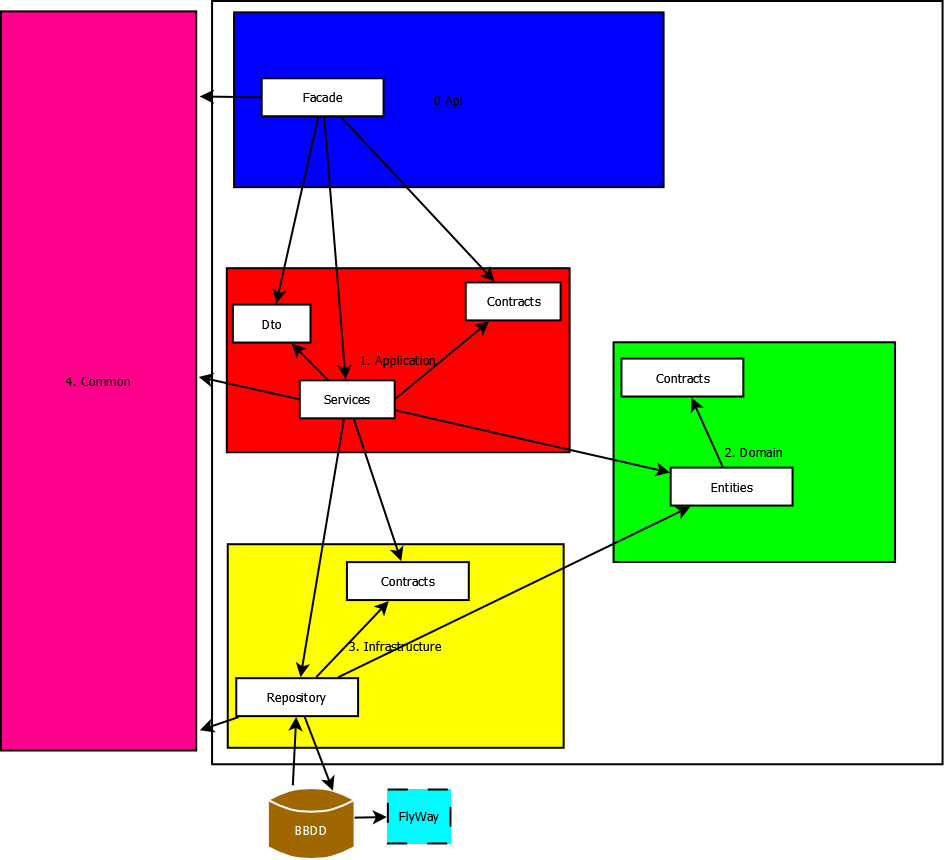
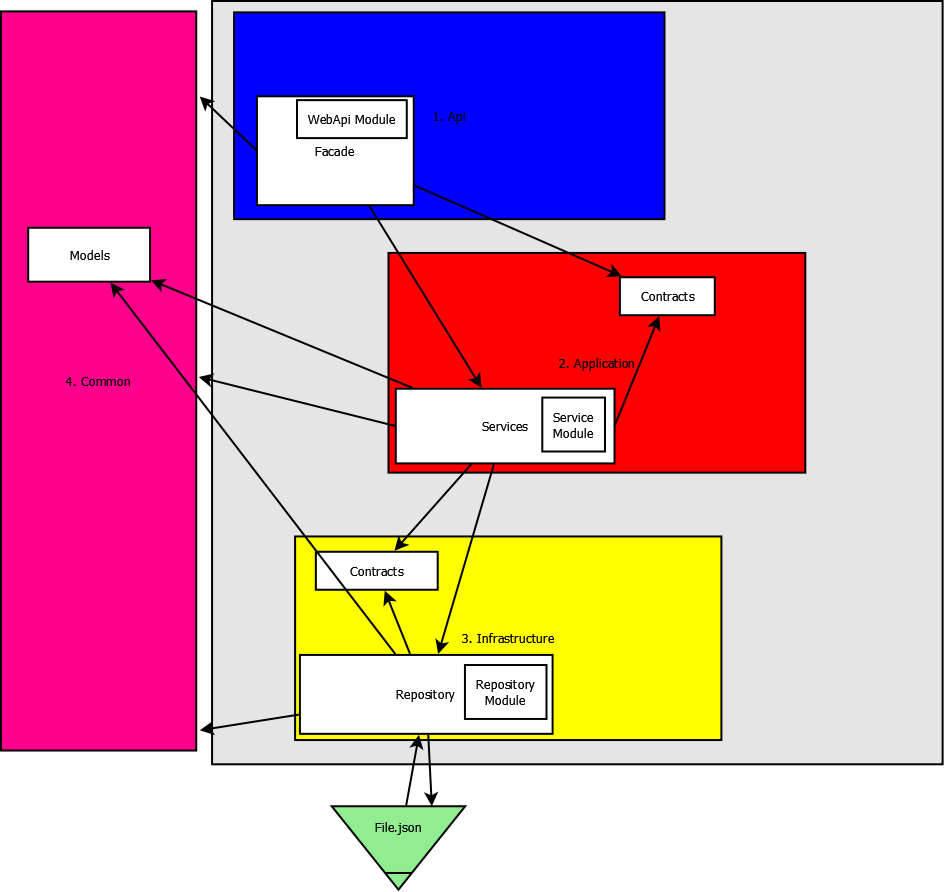
Closed #5. Injection DONE!

diff --git a/Vueling.Application.Services/Modules/ServiceModule.cs b/Vueling.Application.Services/Modules/ServiceModule.cs
@@ -2,6 +2,7 @@
 using System;
 using System.Collections.Generic;
 using System.Linq;
+using System.Net.Http;
 using System.Text;
 using System.Threading.Tasks;
 using Vueling.Application.Services.Contracts;
@@ -16,30 +17,35 @@ namespace Vueling.Application.Services.Modules {
     public class ServiceModule : Autofac.Module {
 
         protected override void Load(ContainerBuilder builder) {
-            builder
-                .RegisterType<ClientService>()
-                .As<IClientService>()
-                .InstancePerRequest();
-
-            builder
-               .RegisterType<PolicyService>()
-               .As<IPolicyService>()
-               .InstancePerRequest();
-
+           
             builder
                 .RegisterType<ClientRepository>()
                 .As<IClientRepository>()
-                .InstancePerRequest();
+                .InstancePerDependency();
+
+            builder
+                .RegisterType<ClientService>()
+                .As<IClientService>()
+                .InstancePerDependency();
+
+            builder
+                .RegisterType<PolicyService>()
+                .As<IPolicyService>()
+                .InstancePerDependency();
 
             builder
                 .RegisterType<PolicyRepository>()
                 .As<IPolicyRepository>()
-                .InstancePerRequest();
+                .InstancePerDependency();
+
+            builder
+                .RegisterType<HttpClient>()
+                .InstancePerDependency();
 
             builder
                 .RegisterType<Log4netAdapter>()
                 .As<ILogger>()
-                .InstancePerRequest();
+                .InstancePerDependency();
 
             builder.RegisterModule(new RepositoryModule());
 

diff --git a/Vueling.Common.Framework.IntegrationTest.Layer/Properties/AssemblyInfo.cs b/Vueling.Common.Framework.IntegrationTest.Layer/Properties/AssemblyInfo.cs
@@ -1,0 +1,36 @@
+using System.Reflection;
+using System.Runtime.CompilerServices;
+using System.Runtime.InteropServices;
+
+// La información general de un ensamblado se controla mediante el siguiente 
+// conjunto de atributos. Cambie estos valores de atributo para modificar la información
+// asociada con un ensamblado.
+[assembly: AssemblyTitle("Vueling.Common.Framework.IntegrationTest.Layer")]
+[assembly: AssemblyDescription("")]
+[assembly: AssemblyConfiguration("")]
+[assembly: AssemblyCompany("")]
+[assembly: AssemblyProduct("Vueling.Common.Framework.IntegrationTest.Layer")]
+[assembly: AssemblyCopyright("Copyright ©  2018")]
+[assembly: AssemblyTrademark("")]
+[assembly: AssemblyCulture("")]
+
+// Si establece ComVisible en false, los tipos de este ensamblado no estarán visibles 
+// para los componentes COM.  Si es necesario obtener acceso a un tipo en este ensamblado desde 
+// COM, establezca el atributo ComVisible en true en este tipo.
+[assembly: ComVisible(false)]
+
+// El siguiente GUID sirve como id. de typelib si este proyecto se expone a COM.
+[assembly: Guid("a9d95669-2b41-46e5-84d4-20b1522da406")]
+
+// La información de versión de un ensamblado consta de los cuatro valores siguientes:
+//
+//      Versión principal
+//      Versión secundaria
+//      Número de compilación
+//      Revisión
+//
+// Puede especificar todos los valores o usar los números de compilación y de revisión predeterminados
+// mediante el carácter "*", como se muestra a continuación:
+// [assembly: AssemblyVersion("1.0.*")]
+[assembly: AssemblyVersion("1.0.0.0")]
+[assembly: AssemblyFileVersion("1.0.0.0")]

diff --git a/Vueling.Facade.Api/Controllers/HTTPApiController.cs b/Vueling.Facade.Api/Controllers/HTTPApiController.cs
@@ -13,11 +13,13 @@ using Vueling.Application.Services.Contracts;
 using Vueling.Application.Services.Service;
 using Vueling.Common.Layer;
 using Vueling.Common.Layer.Utils;
+using Vueling.Common.Layer.Utils.Log4net;
 using Vueling.Facade.Api.ViewModels;
 
-namespace Vueling.Facade.Api.Controllers {   /// <summary>
-                                             /// controller that receives from the web service
-                                             /// </summary>
+namespace Vueling.Facade.Api.Controllers {  
+    /// <summary>
+    /// controller that receives from the web service
+    /// </summary>
     public class HTTPApiController {
 
         public IHTTPService httpService;
@@ -28,7 +30,15 @@ namespace Vueling.Facade.Api.Controllers {   /// <summary>
             httpService = hTTPService;
             this.log = log;
         }
+
+        /*
+        public HTTPApiController() {
+            this.httpService = new HTTPService();
+            this.log = new Log4netAdapter();
+        }
+        */
         #endregion
+        
 
 
 
@@ -36,9 +46,9 @@ namespace Vueling.Facade.Api.Controllers {   /// <summary>
         /// Call GetAllClients and GetAllPolicies
         /// </summary>
         /// <returns></returns>
-        public void InitBDAsync() {
-            GetAllClients();
-            GetAllPolicies();
+        public async void InitBDAsync() {
+            await GetAllClients();
+            await GetAllPolicies();
         }
 
         /// <summary>

diff --git a/Vueling.Facade.Api/Modules/WebApiModule.cs b/Vueling.Facade.Api/Modules/WebApiModule.cs
@@ -16,33 +16,31 @@ namespace Vueling.Facade.Api.Modules {
     public class WebApiModule : Autofac.Module {
 
         protected override void Load(ContainerBuilder builder) {
+
             builder.RegisterApiControllers(Assembly.GetExecutingAssembly());
 
             builder
-                .RegisterType<HTTPApiController>()
-                .InstancePerRequest();
+                .RegisterType<ClientService>()
+                .As<IClientService>()
+                .InstancePerDependency();
+
+
+            builder
+               .RegisterType<PolicyService>()
+               .As<IPolicyService>()
+               .InstancePerDependency();
 
 
             builder
                 .RegisterType<HTTPService>()
                 .As<IHTTPService>()
-                .InstancePerRequest();
+                .InstancePerDependency();
 
-
-            builder
-                .RegisterType<ClientService>()
-                .As<IClientService>()
-                .InstancePerRequest();
-
-            builder
-               .RegisterType<PolicyService>()
-               .As<IPolicyService>()
-               .InstancePerRequest();
 
             builder
                 .RegisterType<Log4netAdapter>()
                 .As<ILogger>()
-                .InstancePerRequest();
+                .InstancePerDependency();
 
             builder.RegisterModule(new ServiceModule());
 

diff --git a/Vueling.Facade.Api/Global.asax.cs b/Vueling.Facade.Api/Global.asax.cs
@@ -6,27 +6,20 @@ using System.Web.Http;
 using System.Web.Mvc;
 using System.Web.Optimization;
 using System.Web.Routing;
+using Vueling.Application.Services.Service;
 using Vueling.Facade.Api.App_Start;
 using Vueling.Facade.Api.Controllers;
 
 namespace Vueling.Facade.Api {
     public class WebApiApplication : System.Web.HttpApplication {
-
-        /*
-        private HTTPApiController httpApiController;
-
-        public WebApiApplication(HTTPApiController httpApiController) {
-            this.httpApiController = httpApiController;
-        }
-        */
-
+        
         protected async void Application_Start() {
             AreaRegistration.RegisterAllAreas();
             GlobalConfiguration.Configure(WebApiConfig.Register);
             FilterConfig.RegisterGlobalFilters(GlobalFilters.Filters);
             RouteConfig.RegisterRoutes(RouteTable.Routes);
             BundleConfig.RegisterBundles(BundleTable.Bundles);
-            //httpApiController.InitBDAsync();
+           // StartDbConfig.InitData();
             log4net.Config.XmlConfigurator.Configure();
             AutofacConfigure.Configure();
         }

diff --git a/Vueling.Infrastructure.Repository/Modules/RepositoryModule.cs b/Vueling.Infrastructure.Repository/Modules/RepositoryModule.cs
@@ -18,23 +18,23 @@ namespace Vueling.Infrastructure.Repository.Modules {
             builder
                .RegisterType<ClientRepository>()
                .As<IClientRepository>()
-               .InstancePerRequest();
+               .InstancePerDependency();
 
             builder
                .RegisterType<PolicyRepository>()
                .As<IPolicyRepository>()
-               .InstancePerRequest();
+               .InstancePerDependency();
 
 
             builder
                 .RegisterType<FileManager>()
                 .As<IFileManager>()
-                .InstancePerRequest();
+                .InstancePerDependency();
 
             builder
                 .RegisterType<Log4netAdapter>()
                 .As<ILogger>()
-                .InstancePerRequest();
+                .InstancePerDependency();
 
             base.Load(builder);
 

diff --git a/Vueling.Application.Services/Services/ClientService.cs b/Vueling.Application.Services/Services/ClientService.cs
@@ -9,16 +9,18 @@ using Vueling.Application.Dto;
 using Vueling.Application.Services.Contracts;
 using Vueling.Common.Layer;
 using Vueling.Common.Layer.Utils;
+using Vueling.Common.Layer.Utils.Log4net;
 using Vueling.Domain.Entities;
 using Vueling.Infrastructure.Repository.Contracts;
 using Vueling.Infrastructure.Repository.Repository;
 
 namespace Vueling.Application.Services.Service {
     public class ClientService : IClientService {
-        private readonly ClientRepository clientRepository;
+        private readonly IClientRepository clientRepository;
         private readonly ILogger log;
 
-        public ClientService(ClientRepository clientRepository, ILogger log) {
+       
+        public ClientService(IClientRepository clientRepository, ILogger log) {
             this.clientRepository = clientRepository;
             this.log = log;
         }

diff --git a/Vueling.Infrastructure.Repository/RepositoryUtils/FileManager.cs b/Vueling.Infrastructure.Repository/RepositoryUtils/FileManager.cs
@@ -8,6 +8,7 @@ using System.Threading.Tasks;
 using Vueling.Application.Dto;
 using Vueling.Common.Layer;
 using Vueling.Common.Layer.Utils;
+using Vueling.Common.Layer.Utils.Log4net;
 using Vueling.Domain.Entities;
 using Vueling.Infrastructure.Repository.Contracts;
 
@@ -26,6 +27,12 @@ namespace Vueling.Infrastructure.Repository {
             Path = Resource_Infrastructure_Repository.PathForFiles;
         }
 
+        public FileManager() {
+            log = new Log4netAdapter();
+            FileClients = Resource_Infrastructure_Repository.PathClients;
+            FilePolicies = Resource_Infrastructure_Repository.PathPolicies;
+            Path = Resource_Infrastructure_Repository.PathForFiles;
+        }
 
         public void SaveClients(List<ClientEntity> listClients) {
             try {

diff --git a/Vueling.Common.Framework.IntegrationTest.Layer/IoCSupportedTest.cs b/Vueling.Common.Framework.IntegrationTest.Layer/IoCSupportedTest.cs
@@ -1,0 +1,29 @@
+using Autofac;
+using Autofac.Core;
+using System;
+using System.Collections.Generic;
+using System.Linq;
+using System.Text;
+using System.Threading.Tasks;
+
+namespace Vueling.Common.Framework.IntegrationTest.Layer {
+    public class IoCSupportedTest<TModule> where TModule : IModule, new() {
+        private IContainer container;
+
+        public IoCSupportedTest() {
+            var builder = new ContainerBuilder();
+
+            builder.RegisterModule(new TModule());
+
+            container = builder.Build();
+        }
+
+        protected TEntity Resolve<TEntity>() {
+            return container.Resolve<TEntity>();
+        }
+
+        protected void ShutdownIoC() {
+            container.Dispose();
+        }
+    }
+}

diff --git a/Vueling.Application.Services/Services/HTTPService.cs b/Vueling.Application.Services/Services/HTTPService.cs
@@ -13,6 +13,7 @@ using Vueling.Application.JsonModels;
 using Vueling.Application.Services.Contracts;
 using Vueling.Common.Layer;
 using Vueling.Common.Layer.Utils;
+using Vueling.Common.Layer.Utils.Log4net;
 
 namespace Vueling.Application.Services.Service {
     public class HTTPService : IHTTPService{
@@ -32,7 +33,14 @@ namespace Vueling.Application.Services.Service {
             this.policyService = policyService;
             client.BaseAddress = new Uri(ConfigurationManager.AppSettings["uriWebServiceClientsPolicies"]);
         }
+        
         #endregion
+
+        public void InitDb() {
+            GetAllClients();
+            GetAllPolicies();
+        }
+
 
         /// <summary>
         /// Get all clients

diff --git a/Vueling.Application.Services/Services/PolicyService.cs b/Vueling.Application.Services/Services/PolicyService.cs
@@ -9,6 +9,7 @@ using Vueling.Application.Dto;
 using Vueling.Application.Services.Contracts;
 using Vueling.Common.Layer;
 using Vueling.Common.Layer.Utils;
+using Vueling.Common.Layer.Utils.Log4net;
 using Vueling.Domain.Entities;
 using Vueling.Infrastructure.Repository.Contracts;
 using Vueling.Infrastructure.Repository.Repository;
@@ -19,7 +20,7 @@ namespace Vueling.Application.Services.Service {
         private readonly IPolicyRepository policyRepository;
         private readonly ILogger log;
 
-
+        
         public PolicyService(IPolicyRepository policyRepository, ILogger log) {
             this.policyRepository = policyRepository;
             this.log = log;

diff --git a/Vueling.Facade.Api/Controllers/PolicyApiController.cs b/Vueling.Facade.Api/Controllers/PolicyApiController.cs
@@ -11,6 +11,7 @@ using Vueling.Application.Services.Contracts;
 using Vueling.Application.Services.Service;
 using Vueling.Common.Layer;
 using Vueling.Common.Layer.Utils;
+using Vueling.Common.Layer.Utils.Log4net;
 
 namespace Vueling.Facade.Api.Controllers
 {
@@ -24,6 +25,15 @@ namespace Vueling.Facade.Api.Controllers
             this.policyService = policyService;
             this.log = log;
         }
+
+
+        /*
+        protected PolicyApiController() {
+            this.policyService = new PolicyService();
+            this.log = new Log4netAdapter();
+        }
+        */
+
         #endregion
 
         /// <summary>
